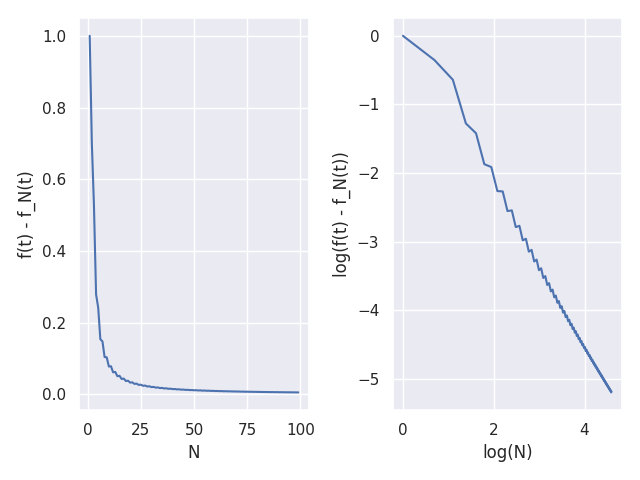
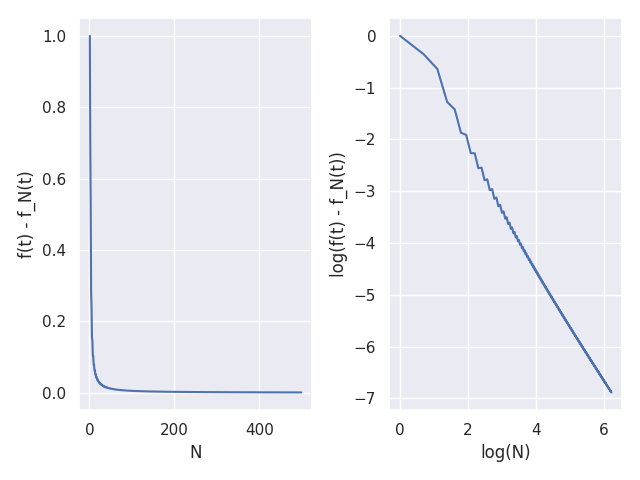
add : 処理時間を追加

diff --git a/discrete_fourier.py b/discrete_fourier.py
@@ -2,6 +2,7 @@ import numpy as np
 import matplotlib.pyplot as plt
 import seaborn as sns
 from tqdm import tqdm
+import time
 
 
 def gen_data(n, case):
@@ -53,12 +54,16 @@ def test_dft(n, case):
         print("fourier:", f_ls)
     else:
         sns.set_theme()
-
+        time_ls = []
         error_ls = []
         step_ls = []
+
         for idx in tqdm(range(1, n)):
             arr = gen_data(idx, case)
+            ut = time.time()
             coef_ls = coef(arr)
+            t = time.time() - ut
+
             f_ls = dft(coef_ls)
 
             c_true = np.zeros_like(coef_ls)
@@ -67,6 +72,8 @@ def test_dft(n, case):
             diff = coef_ls - c_true
             error_ls.append(np.mean(np.sqrt(diff.real ** 2 + diff.imag ** 2)))
             step_ls.append(idx)
+            time_ls.append(t)
+
         # draw
         step_ls = np.array(step_ls)
         error_ls = np.array(error_ls)
@@ -83,6 +90,21 @@ def test_dft(n, case):
         figure.tight_layout()
         figure.savefig("dft_error.png")
 
+        # draw
+        time_ls = np.array(time_ls)
+        figure = plt.figure()
+        ax1 = figure.add_subplot(1, 2, 1)
+        ax1.set_xlabel("N")
+        ax1.set_ylabel("time")
+        ax1.plot(step_ls, time_ls)
+
+        ax2 = figure.add_subplot(1, 2, 2)
+        ax2.plot(np.log(step_ls), np.log(time_ls))
+        ax2.set_xlabel("log(N)")
+        ax2.set_ylabel("log(time)")
+        figure.tight_layout()
+        figure.savefig("dft_time.png")
+
 
 if __name__ == "__main__":
-    test_dft(100, 2)
+    test_dft(500, 2)
